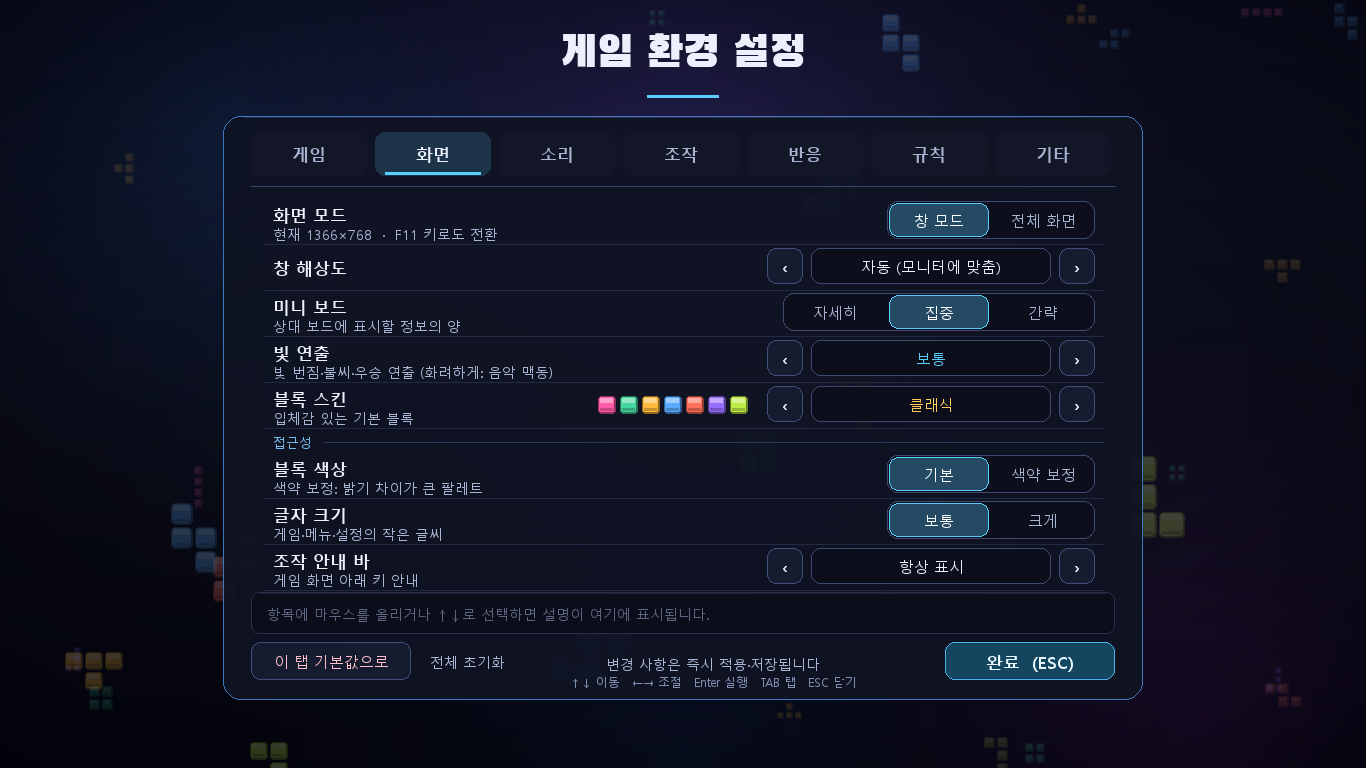
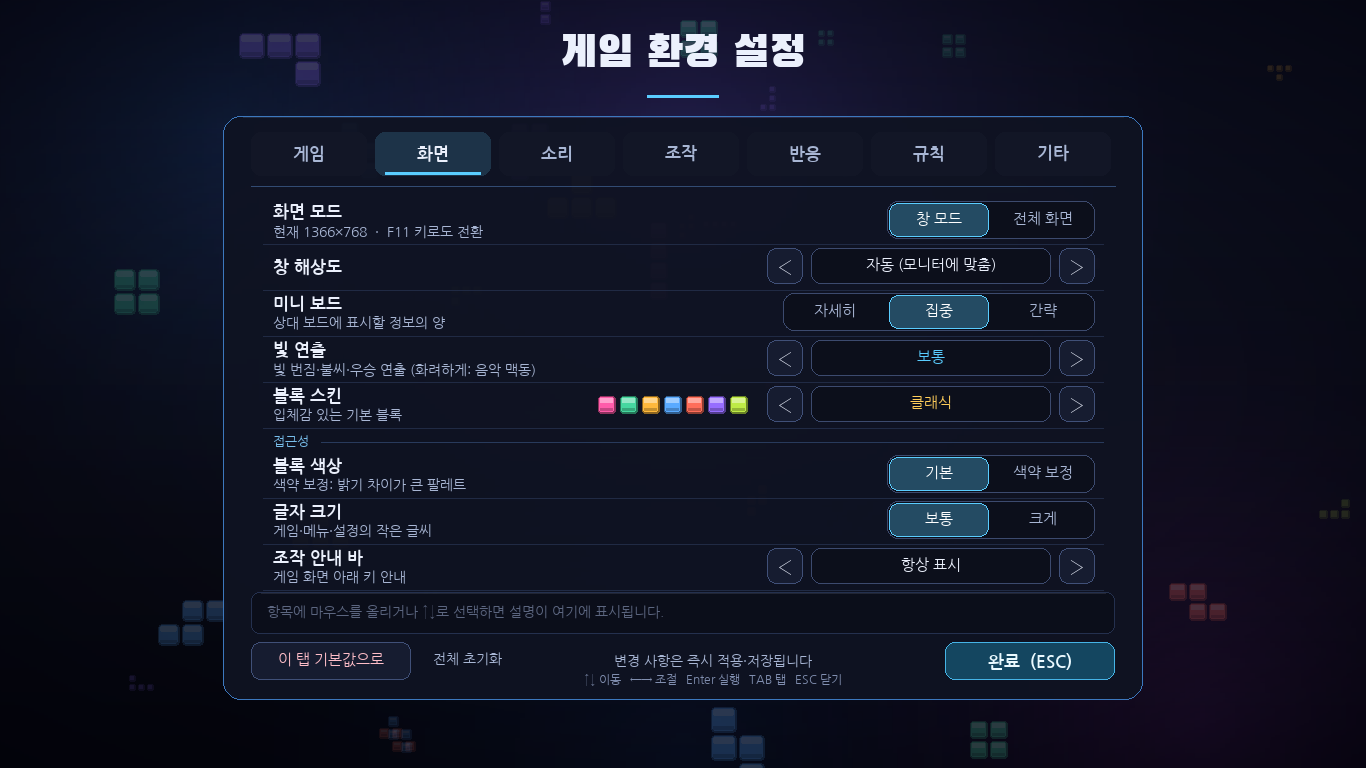
v1.4.45: 기본 글꼴을 동봉 나눔고딕으로 (파일이 없으면 OS 글꼴로 대체)

diff --git a/tests/test_fonts.py b/tests/test_fonts.py
@@ -48,11 +48,31 @@ def test_os_font_with_hangul_is_used_unchanged():
     made = []
     pygame.font.SysFont = lambda names, px, bold=False: _FakeFont(True)
     pygame.font.Font = lambda *a, **k: made.append(a) or _FakeFont(True)
+    pref = font_utils.PREFER_BUNDLED
+    font_utils.PREFER_BUNDLED = False                                  # '동봉 글꼴 우선'을 끈 경우의 동작 (OS 글꼴 우선)
     try:
         f = font_utils.make_font("malgungothic,arial", 20, True)
+        f2 = font_utils.make_font("consolas", 20, True)                # 맑은 고딕이 아닌 이름은 우선 적용 대상이 아님
+    finally:
+        font_utils.PREFER_BUNDLED = pref
+        pygame.font.SysFont, pygame.font.Font = orig_sys, orig_font
+    assert isinstance(f, _FakeFont) and isinstance(f2, _FakeFont) and not made, "OS 글꼴에 한글이 있으면 동봉 글꼴을 열지 않음"
+
+
+def test_default_font_is_bundled_nanum_gothic_and_other_names_keep_os_fonts():
+    pygame.font.init()
+    orig_sys, orig_font = pygame.font.SysFont, pygame.font.Font
+    made, sysd = [], []
+    pygame.font.SysFont = lambda names, px, bold=False: sysd.append(names) or _FakeFont(True)
+    pygame.font.Font = lambda *a, **k: made.append(a) or _FakeFont(True)
+    try:
+        font_utils.make_font("malgungothic,segoeui,arial", 20, False)
+        font_utils.make_font("malgungothic,segoeui,arial", 20, True)
+        font_utils.make_font("consolas", 20, True)
     finally:
         pygame.font.SysFont, pygame.font.Font = orig_sys, orig_font
-    assert isinstance(f, _FakeFont) and not made, "OS 글꼴에 한글이 있으면 동봉 글꼴을 열지 않음"
+    assert [os.path.basename(a[0]) for a in made] == ["NanumGothic-Regular.ttf", "NanumGothic-Bold.ttf"], made
+    assert sysd == ["consolas"], sysd
 
 
 def test_bundled_font_is_used_only_when_os_font_lacks_hangul():

diff --git a/font_utils.py b/font_utils.py
@@ -16,6 +16,7 @@ FONT_DIR = os.path.join("assets", "fonts")
 REGULAR_CANDIDATES = ("NanumGothic-Regular.ttf", "NanumGothic.ttf")
 BOLD_CANDIDATES = ("NanumGothic-Bold.ttf", "NanumGothicBold.ttf")
 _WARNED = set()
+PREFER_BUNDLED = True            # True: 기본 글꼴(맑은 고딕으로 지정된 곳)을 동봉 나눔고딕으로 그림. 파일이 없으면 자동으로 OS 글꼴
 
 
 def bundled_font_path(bold=False):
@@ -41,6 +42,13 @@ def supports_hangul(font):
 
 def make_font(names, px, bold=False):
     """pygame 글꼴 만들기: OS 글꼴 우선, 한글이 안 나오면 동봉 글꼴"""
+    if PREFER_BUNDLED and str(names).lower().startswith("malgungothic"):      # 게임 기본 글꼴: 모든 PC에서 같은 모양이 되도록 동봉 나눔고딕을 우선 사용
+        path = bundled_font_path(bold)
+        if path is not None:
+            try:
+                return pygame.font.Font(path, px)
+            except Exception:
+                pass                                                         # 열 수 없으면 아래의 OS 글꼴로
     font = pygame.font.SysFont(names, px, bold=bold)
     if supports_hangul(font):
         return font

diff --git a/config.py b/config.py
@@ -2,7 +2,7 @@
 Block Royale 100 - Configuration & Constants
 """
 
-APP_VERSION = "1.4.44"          # 프로그램 버전 (메인 화면 하단, --version, error.log에 표시)
+APP_VERSION = "1.4.45"          # 프로그램 버전 (메인 화면 하단, --version, error.log에 표시)
 
 # 화면 해상도 설정
 SCREEN_WIDTH = 1366
